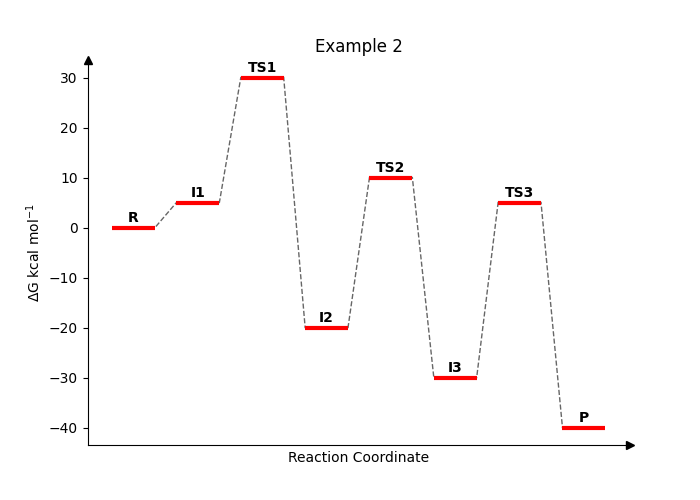
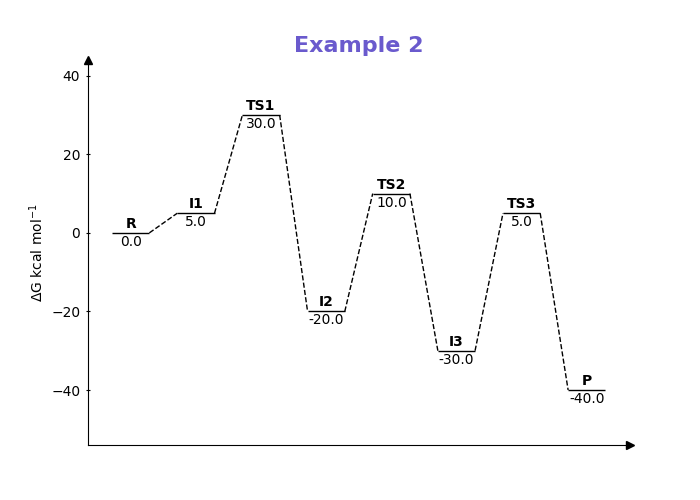
Add option to show energy labels also. Update Example 2 to show breadth of options.

diff --git a/path.py b/path.py
@@ -13,10 +13,15 @@ def plot_reaction_profile(
     figsize=(7, 5),
     save_file=None,
     show_plot=True,
-    label_offset=0.5,
-    label_fontweight="normal",
-    label_fontsize=10,
-    label_color="black",
+    species_label_offset=0.5,
+    species_label_fontweight="normal",
+    species_label_fontsize=10,
+    species_label_color="black",
+    show_energies=False,
+    energy_label_offset=0.5,
+    energy_label_fontweight="normal",
+    energy_label_fontsize=10,
+    energy_label_color="black",
     x_margin=0.05,
     y_margin=0.05,
     x_label="Reaction Coordinate",
@@ -115,13 +120,29 @@ def plot_reaction_profile(
         for label, energy in zip(labels, energies):
             ax.text(
                 current_position,
-                energy + label_offset,
+                energy + species_label_offset,
                 label,
                 horizontalalignment="center",
                 verticalalignment="bottom",
-                fontweight=label_fontweight,
-                size=label_fontsize,
-                color=label_color,
+                fontweight=species_label_fontweight,
+                size=species_label_fontsize,
+                color=species_label_color,
+            )
+            current_position = current_position + point_width + point_distance
+
+    # Adding energy labels to points if specified
+    if show_energies:
+        current_position = point_width / 2
+        for label, energy in zip(labels, energies):
+            ax.text(
+                current_position,
+                energy - energy_label_offset,
+                energy,
+                horizontalalignment="center",
+                verticalalignment="top",
+                fontweight=energy_label_fontweight,
+                size=energy_label_fontsize,
+                color=energy_label_color,
             )
             current_position = current_position + point_width + point_distance
 

diff --git a/README.md b/README.md
@@ -11,8 +11,11 @@ labels = ["R","I1","TS1","I2","TS2","I3","TS3","P"]
 energies = [0.0, 5.0, 30.0, -20.0, 10.0, -30.0, 5.0, -40.0]
 
 path.plot_reaction_profile(energies, labels=labels, title="Example 1")
-path.plot_reaction_profile(energies, labels=labels, label_fontweight="bold", title="Example 2", point_color="red",
-                           point_width=2.0, point_distance=1.0, connector_linestyle="-", connector_alpha=1.0)
+path.plot_reaction_profile(energies, labels=labels, show_energies=True, y_margin=0.2,
+                           title="Example 2", title_fontsize=16, title_fontweight="bold",
+                           title_color="slateblue", species_label_fontweight="bold", x_tick_direction="inout",
+                           point_width=2.0, point_distance=1.5, point_linewidth=1,
+                           connector_alpha=1.0, x_label=None)
 
 ```
 
@@ -24,40 +27,44 @@ path.plot_reaction_profile(energies, labels=labels, label_fontweight="bold", tit
 ### Options
 
 
-| Argument              | Explanation                                                       | Default Value                |
-|-----------------------|-------------------------------------------------------------------|------------------------------|
-| energies              | List of energies (list of floats)                                 | -                            |
-| labels                | List of labels (list of strings)                                  | None                         |
-| title                 | Title of plot (string)                                            | None                         |
-| title_fontweight      | Weight of title (Matplotlib valid option)                         | "normal"                     |
-| title_fontsize        | Fontsize of title (Matplotlib valid option)                       | 10                           |
-| title_color           | Color of title (Matplotlib valid option)                          | "black"                      |
-| figsize               | Size of figure (tuple (width,height) in inches)                   | (7,5)                        |
-| save_file             | Name of image to be saved (string) - Will not save if None        | None                         |
-| show_plot             | Whether to show plot (boolean)                                    | True                         |
-| label_offset          | How much to offset labels from point (float)                      | 0.5                          |
-| label_fontweight      | Weight of stationary point label text (Matplotlib valid option)   | "normal"                     |
-| label_fontsize        | Fontsize of stationary point label text (Matplotlib valid option) | 10                           |
-| label_color           | Color of stationary point label text (Matplotlib valid option)    | "black"                      |
-| x_margin              | How much margin to put on left and right of plot (float)          | 0.05                         |
-| y_margin              | How much margin to put on top and bottom of plot (float)          | 0.05                         |
-| x_label               | X-axis label (string)                                             | "Reaction Coordinate"        |
-| x_label_fontweight    | Weight of X-axis label (Matplotlib valid option)                  | "normal"                     |
-| x_label_fontsize      | Fontsize of X-axis label (Matplotlib valid option)                | 10                           |
-| x_label_color         | Color of X-axis label (Matplotlib valid option)                   | "black"                      |
-| y_label               | Y-axis label (string)                                             | r"$\Delta$G kcal mol$^{-1}$" |
-| y_label_fontweight    | Weight of Y-axis label (Matplotlib valid option)                  | "normal"                     |
-| y_label_fontsize      | Fontsize of Y-axis label (Matplotlib valid option)                | 10                           |
-| y_label_color         | Color of Y-axis label (Matplotlib valid option)                   | "black"                      |
-| x_tick_direction      | Direction of X-axis tick marks (Matplotlib valid option)          | "out"                        |
-| x_tick_label_fontsize | Fontize of X-axis tick labels (Matplotlib valid option)           | 10                           |
-| x_tick_label_color    | Color of X-axis tick labels (Matplotlib valid option)             | "black"                      |
-| point_color           | Color of stationary point (any Matplotlib color)                  | "black"                      |
-| point_alpha           | Opacity of stationary point (0.0 --> 1.0)                         | 1.0                          |
-| point_width           | Width of stationary point (float)                                 | 0.25                         |
-| point_distance        | Distance between stationary points (float)                        | 0.5                          |
-| point_linewidth       | Linewidth of stationary point (float)                             | 3                            |
-| connector_color       | Color of connector lines (Matplotlib valid color)                 | "black"                      |
-| connector_alpha       | Opacity of connector lines (0.0 --> 1.0)                          | 0.6                          |
-| connector_linewidth   | Linewidth of connector lines (float)                              | 1                            |
-| connector_linestyle   | Linestyle of connector lines (Matplotlib valid linestyle)         | "--"                         |
+| Argument                 | Explanation                                                               | Default Value                |
+|--------------------------|---------------------------------------------------------------------------|------------------------------|
+| energies                 | List of energies (list of floats)                                         | -                            |
+| labels                   | List of labels (list of strings)                                          | None                         |
+| title                    | Title of plot (string)                                                    | None                         |
+| title_fontweight         | Weight of title (Matplotlib valid option)                                 | "normal"                     |
+| title_fontsize           | Fontsize of title (Matplotlib valid option)                               | 10                           |
+| title_color              | Color of title (Matplotlib valid option)                                  | "black"                      |
+| figsize                  | Size of figure (tuple (width,height) in inches)                           | (7,5)                        |
+| save_file                | Name of image to be saved (string) - Will not save if None                | None                         |
+| show_plot                | Whether to show plot (boolean)                                            | True                         |
+| species_label_offset     | How much to offset species labels from point (float)                      | 0.5                          |
+| species_label_fontweight | Weight of stationary point species label text (Matplotlib valid option)   | "normal"                     |
+| species_label_fontsize   | Fontsize of stationary point species label text (Matplotlib valid option) | 10                           |
+| species_label_color      | Color of stationary point species label text (Matplotlib valid option)    | "black"                      |
+| energy_label_offset      | How much to offset energy labels from point (float)                       | 0.5                          |
+| energy_label_fontweight  | Weight of stationary point energy label text (Matplotlib valid option)    | "normal"                     |
+| energy_label_fontsize    | Fontsize of stationary point energy label text (Matplotlib valid option)  | 10                           |
+| energy_label_color       | Color of stationary point energy label text (Matplotlib valid option)     | "black"                      |
+| x_margin                 | How much margin to put on left and right of plot (float)                  | 0.05                         |
+| y_margin                 | How much margin to put on top and bottom of plot (float)                  | 0.05                         |
+| x_label                  | X-axis label (string)                                                     | "Reaction Coordinate"        |
+| x_label_fontweight       | Weight of X-axis label (Matplotlib valid option)                          | "normal"                     |
+| x_label_fontsize         | Fontsize of X-axis label (Matplotlib valid option)                        | 10                           |
+| x_label_color            | Color of X-axis label (Matplotlib valid option)                           | "black"                      |
+| y_label                  | Y-axis label (string)                                                     | r"$\Delta$G kcal mol$^{-1}$" |
+| y_label_fontweight       | Weight of Y-axis label (Matplotlib valid option)                          | "normal"                     |
+| y_label_fontsize         | Fontsize of Y-axis label (Matplotlib valid option)                        | 10                           |
+| y_label_color            | Color of Y-axis label (Matplotlib valid option)                           | "black"                      |
+| x_tick_direction         | Direction of X-axis tick marks (Matplotlib valid option)                  | "out"                        |
+| x_tick_label_fontsize    | Fontize of X-axis tick labels (Matplotlib valid option)                   | 10                           |
+| x_tick_label_color       | Color of X-axis tick labels (Matplotlib valid option)                     | "black"                      |
+| point_color              | Color of stationary point (any Matplotlib color)                          | "black"                      |
+| point_alpha              | Opacity of stationary point (0.0 --> 1.0)                                 | 1.0                          |
+| point_width              | Width of stationary point (float)                                         | 0.25                         |
+| point_distance           | Distance between stationary points (float)                                | 0.5                          |
+| point_linewidth          | Linewidth of stationary point (float)                                     | 3                            |
+| connector_color          | Color of connector lines (Matplotlib valid color)                         | "black"                      |
+| connector_alpha          | Opacity of connector lines (0.0 --> 1.0)                                  | 0.6                          |
+| connector_linewidth      | Linewidth of connector lines (float)                                      | 1                            |
+| connector_linestyle      | Linestyle of connector lines (Matplotlib valid linestyle)                 | "--"                         |
